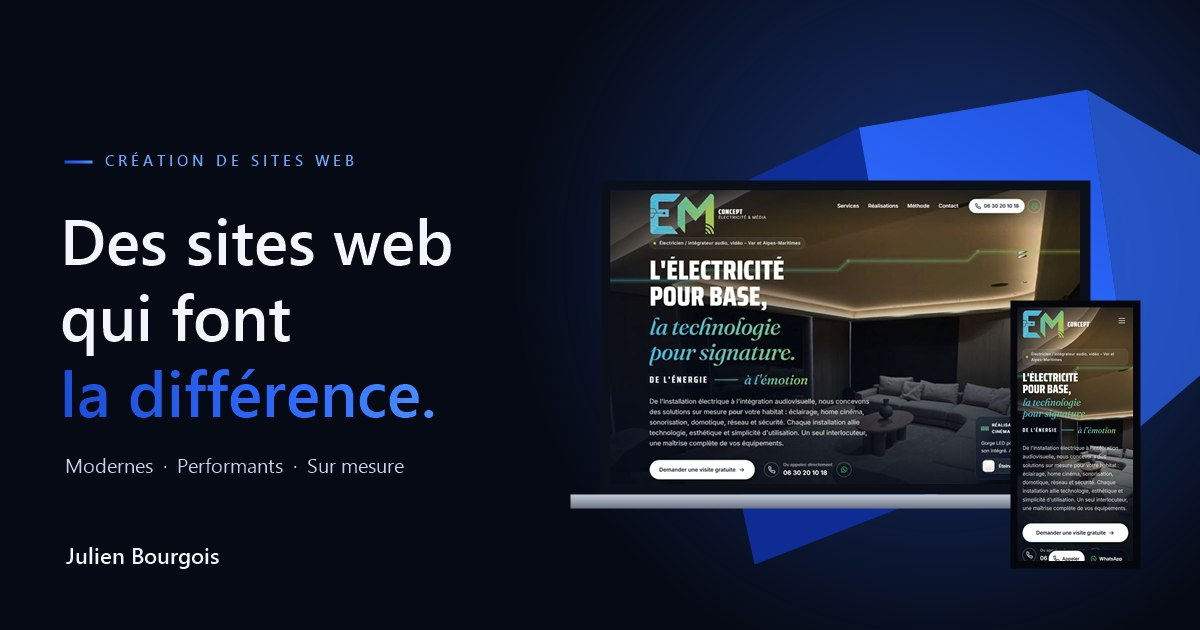
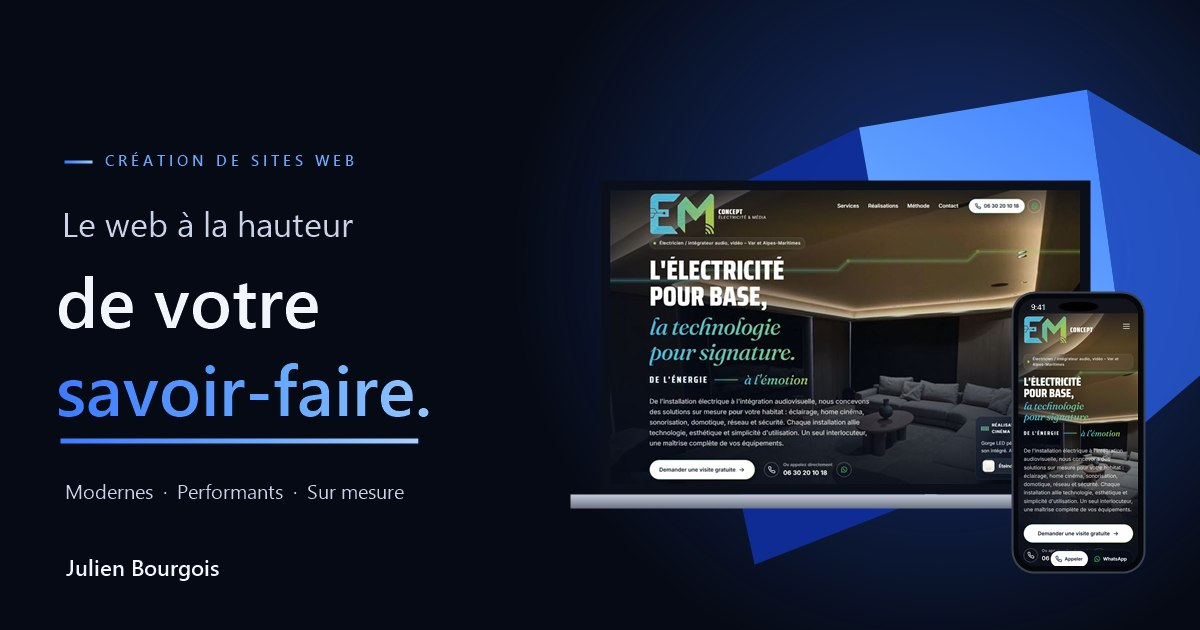
Accueil : « Le web à la hauteur de votre savoir-faire » et cinématique d'entrée
- Ligne d'intro qui se met au point (lettres qui se resserrent, flou qui se dissipe)
- « de votre » / « savoir-faire. » montent en sortant du flou, trait en dégradé
  tracé sous « savoir-faire. », puis reflet lumineux (toutes les 8 s)
- Texte et boutons après le titre, appareils en dernier ; respecte « réduire les animations »
- Image de partage et Open Graph mis à jour ; version des fichiers ?v=20261024

diff --git a/index.html b/index.html
@@ -14,13 +14,13 @@
   <meta property="og:type" content="website">
   <meta property="og:locale" content="fr_FR">
   <meta property="og:site_name" content="Julien Bourgois — Création de sites web">
-  <meta property="og:title" content="Des sites web qui font la différence — Julien Bourgois">
+  <meta property="og:title" content="Le web à la hauteur de votre savoir-faire — Julien Bourgois">
   <meta property="og:description" content="Sites web modernes, performants et sur mesure pour artisans, commerces et indépendants. Devis gratuit.">
   <meta property="og:url" content="https://julienb.vercel.app/">
-  <meta property="og:image" content="https://julienb.vercel.app/assets/img/og-image.jpg?v=20261023d">
+  <meta property="og:image" content="https://julienb.vercel.app/assets/img/og-image.jpg?v=20261024">
   <meta property="og:image:width" content="1200">
   <meta property="og:image:height" content="630">
-  <meta property="og:image:alt" content="Julien Bourgois, création de sites web : des sites web qui font la différence.">
+  <meta property="og:image:alt" content="Julien Bourgois, création de sites web : le web à la hauteur de votre savoir-faire.">
   <meta name="twitter:card" content="summary_large_image">
 
   <link rel="icon" href="assets/img/favicon.svg" type="image/svg+xml">
@@ -30,9 +30,9 @@
   <link rel="preconnect" href="https://fonts.googleapis.com">
   <link rel="preconnect" href="https://fonts.gstatic.com" crossorigin>
   <link rel="stylesheet" href="https://fonts.googleapis.com/css2?family=Outfit:wght@500;600&family=Inter:wght@400;500;600;700&display=swap">
-  <link rel="preload" as="image" href="assets/img/emconcept-720.jpg?v=20261023d" imagesrcset="assets/img/emconcept-720.jpg?v=20261023d 720w, assets/img/emconcept-1440.jpg?v=20261023d 1440w" imagesizes="(max-width: 960px) 90vw, 600px">
-  <link rel="stylesheet" href="assets/css/styles.css?v=20261023d">
-  <script type="module" src="assets/js/main.js?v=20261023d"></script>
+  <link rel="preload" as="image" href="assets/img/emconcept-720.jpg?v=20261024" imagesrcset="assets/img/emconcept-720.jpg?v=20261024 720w, assets/img/emconcept-1440.jpg?v=20261024 1440w" imagesizes="(max-width: 960px) 90vw, 600px">
+  <link rel="stylesheet" href="assets/css/styles.css?v=20261024">
+  <script type="module" src="assets/js/main.js?v=20261024"></script>
 
   <script type="application/ld+json">
   {
@@ -53,7 +53,7 @@
         "@id": "https://julienb.vercel.app/#studio",
         "name": "Julien Bourgois — création de sites web",
         "url": "https://julienb.vercel.app/",
-        "image": "https://julienb.vercel.app/assets/img/og-image.jpg?v=20261023d",
+        "image": "https://julienb.vercel.app/assets/img/og-image.jpg?v=20261024",
         "telephone": "+33674887585",
         "email": "bourgois.ju@gmail.com",
         "founder": { "@id": "https://julienb.vercel.app/#julien" },
@@ -123,10 +123,12 @@
       <section class="hero container" id="top" data-reveal data-devices>
         <div class="hero-copy">
           <p class="kicker kicker-left reveal" style="--i:0">Création de sites web</p>
+          <!-- Entrance (styles.css § Motion): the intro line comes into focus, the two big lines rise,
+               a gradient stroke draws under « savoir-faire. », then a light sweep crosses it. -->
           <h1>
-            <span class="line"><span style="--i:0">Des sites web</span></span>
-            <span class="line"><span style="--i:1">qui font</span></span>
-            <span class="line"><span style="--i:2" class="grad-text">la différence.</span></span>
+            <span class="h1-intro">Le web à la hauteur</span>
+            <span class="line"><span style="--i:1">de votre</span></span>
+            <span class="line line-underline"><span style="--i:2" class="grad-text shine">savoir-faire.</span></span>
           </h1>
           <ul class="hero-pillars reveal" style="--i:3"><li>Modernes</li><li>Performants</li><li>Sur mesure</li></ul>
           <p class="lead reveal" style="--i:4">Je conçois des sites web modernes, élégants et adaptés à vos objectifs. Que vous soyez artisan, commerçant ou indépendant, votre site doit refléter votre savoir-faire, inspirer confiance et donner envie à vos futurs clients de vous contacter.</p>
@@ -161,9 +163,9 @@
             <div class="laptop">
               <div class="laptop-screen">
                 <div class="screen" data-screen="desktop">
-                  <img class="is-active" src="assets/img/emconcept-720.jpg?v=20261023d" srcset="assets/img/emconcept-720.jpg?v=20261023d 720w, assets/img/emconcept-1440.jpg?v=20261023d 1440w" sizes="(max-width: 960px) 90vw, 600px" width="1440" height="900" fetchpriority="high" decoding="async" alt="">
-                  <img src="assets/img/autoecole-720.jpg?v=20261023d" srcset="assets/img/autoecole-720.jpg?v=20261023d 720w, assets/img/autoecole-1440.jpg?v=20261023d 1440w" sizes="(max-width: 960px) 90vw, 600px" width="1440" height="900" decoding="async" alt="">
-                  <img src="assets/img/taquet-720.jpg?v=20261023d" srcset="assets/img/taquet-720.jpg?v=20261023d 720w, assets/img/taquet-1440.jpg?v=20261023d 1440w" sizes="(max-width: 960px) 90vw, 600px" width="1440" height="900" decoding="async" alt="">
+                  <img class="is-active" src="assets/img/emconcept-720.jpg?v=20261024" srcset="assets/img/emconcept-720.jpg?v=20261024 720w, assets/img/emconcept-1440.jpg?v=20261024 1440w" sizes="(max-width: 960px) 90vw, 600px" width="1440" height="900" fetchpriority="high" decoding="async" alt="">
+                  <img src="assets/img/autoecole-720.jpg?v=20261024" srcset="assets/img/autoecole-720.jpg?v=20261024 720w, assets/img/autoecole-1440.jpg?v=20261024 1440w" sizes="(max-width: 960px) 90vw, 600px" width="1440" height="900" decoding="async" alt="">
+                  <img src="assets/img/taquet-720.jpg?v=20261024" srcset="assets/img/taquet-720.jpg?v=20261024 720w, assets/img/taquet-1440.jpg?v=20261024 1440w" sizes="(max-width: 960px) 90vw, 600px" width="1440" height="900" decoding="async" alt="">
                 </div>
               </div>
               <div class="laptop-base"></div>
@@ -175,9 +177,9 @@
           <div class="phone">
             <div class="phone-screen" data-screen="mobile">
               <div class="phone-status"><span>9:41</span><svg viewBox="0 0 54 12" fill="currentColor"><path d="M1 9h2v2H1zM5 7h2v4H5zM9 4h2v7H9zM13 1h2v10h-2z"/><path d="M24 4.2a8 8 0 0 1 10 0l-1.3 1.4a6 6 0 0 0-7.4 0zM26.5 6.9a4.3 4.3 0 0 1 5 0L29 9.6z"/><rect x="38.5" y="1.5" width="12" height="9" rx="2.4" fill="none" stroke="currentColor" opacity=".5"/><rect x="40" y="3" width="8" height="6" rx="1.2"/><path d="M52 4.5v3a1.5 1.5 0 0 0 0-3z" opacity=".5"/></svg></div>
-              <img class="is-active" data-status="#12141b" data-status-ink="#ffffff" src="assets/img/emconcept-mobile.jpg?v=20261023d" width="585" height="1266" decoding="async" alt="">
-              <img data-status="#ffffff" data-status-ink="#0a0a0a" src="assets/img/autoecole-mobile.jpg?v=20261023d" width="585" height="1266" decoding="async" alt="">
-              <img data-status="#d2e6f3" data-status-ink="#0a0a0a" src="assets/img/taquet-mobile.jpg?v=20261023d" width="585" height="1266" decoding="async" alt="">
+              <img class="is-active" data-status="#12141b" data-status-ink="#ffffff" src="assets/img/emconcept-mobile.jpg?v=20261024" width="585" height="1266" decoding="async" alt="">
+              <img data-status="#ffffff" data-status-ink="#0a0a0a" src="assets/img/autoecole-mobile.jpg?v=20261024" width="585" height="1266" decoding="async" alt="">
+              <img data-status="#d2e6f3" data-status-ink="#0a0a0a" src="assets/img/taquet-mobile.jpg?v=20261024" width="585" height="1266" decoding="async" alt="">
             </div>
           </div>
         </div>
@@ -201,8 +203,8 @@
           <li class="project card" data-reveal>
             <a class="project-shot" href="https://emconcept.vercel.app" target="_blank" rel="noopener" data-preview
                data-title="EM Concept" data-meta="Électricité &amp; audiovisuel · Var">
-              <img src="assets/img/emconcept-720.jpg?v=20261023d"
-                   srcset="assets/img/emconcept-720.jpg?v=20261023d 720w, assets/img/emconcept-1440.jpg?v=20261023d 1440w"
+              <img src="assets/img/emconcept-720.jpg?v=20261024"
+                   srcset="assets/img/emconcept-720.jpg?v=20261024 720w, assets/img/emconcept-1440.jpg?v=20261024 1440w"
                    sizes="(max-width: 960px) 100vw, 680px"
                    width="1440" height="900" loading="lazy" decoding="async"
                    alt="Page d'accueil d'EM Concept : « L'électricité pour base, la technologie pour signature » sur un salon éclairé">
@@ -220,8 +222,8 @@
           <li class="project card" data-reveal>
             <a class="project-shot" href="https://autoecole-smoky.vercel.app" target="_blank" rel="noopener" data-preview
                data-title="Auto-école La Tour de Mare" data-meta="Auto-école · Fréjus">
-              <img src="assets/img/autoecole-720.jpg?v=20261023d"
-                   srcset="assets/img/autoecole-720.jpg?v=20261023d 720w, assets/img/autoecole-1440.jpg?v=20261023d 1440w"
+              <img src="assets/img/autoecole-720.jpg?v=20261024"
+                   srcset="assets/img/autoecole-720.jpg?v=20261024 720w, assets/img/autoecole-1440.jpg?v=20261024 1440w"
                    sizes="(max-width: 960px) 100vw, 680px"
                    width="1440" height="900" loading="lazy" decoding="async"
                    alt="Page d'accueil de l'auto-école La Tour de Mare : « Passez votre permis dans une auto-école qui a fait ses preuves »">
@@ -239,8 +241,8 @@
           <li class="project card" data-reveal>
             <a class="project-shot" href="https://annick-taquet-assoignons.vercel.app" target="_blank" rel="noopener" data-preview
                data-title="Annick Taquet-Assoignons" data-meta="Psychologue &amp; autrice">
-              <img src="assets/img/taquet-720.jpg?v=20261023d"
-                   srcset="assets/img/taquet-720.jpg?v=20261023d 720w, assets/img/taquet-1440.jpg?v=20261023d 1440w"
+              <img src="assets/img/taquet-720.jpg?v=20261024"
+                   srcset="assets/img/taquet-720.jpg?v=20261024 720w, assets/img/taquet-1440.jpg?v=20261024 1440w"
                    sizes="(max-width: 960px) 100vw, 680px"
                    width="1440" height="900" loading="lazy" decoding="async"
                    alt="Page d'accueil d'Annick Taquet-Assoignons : « Mettre des mots sur ce qui se vit » entouré de couvertures de livres">

diff --git a/assets/css/styles.css b/assets/css/styles.css
@@ -203,9 +203,23 @@ ul, ol { margin: 0; padding: 0; list-style: none; }
   display: grid; grid-template-columns: minmax(0, 1fr) minmax(0, 1.05fr); align-items: center; gap: clamp(32px, 5vw, 72px);
   min-height: min(calc(100svh - var(--header-h)), 880px); padding-block: clamp(48px, 7vw, 96px);
 }
-.hero h1 { margin-top: 24px; font-size: var(--fs-hero); font-weight: 600; letter-spacing: -.035em; line-height: 1.02; }
+.hero h1 { margin-top: 24px; font-size: clamp(2.9rem, 5.6vw, 5.2rem); font-weight: 600; letter-spacing: -.035em; line-height: 1.02; }
 .hero h1 .line { display: block; overflow: hidden; padding-bottom: .08em; margin-bottom: -.08em; }
 .hero h1 .line > span { display: inline-block; }
+/* Small intro line above the two big ones */
+.h1-intro { display: block; white-space: nowrap; margin-bottom: .3em; font-size: .46em; font-weight: 500; letter-spacing: -.01em; line-height: 1.1; color: var(--ink-2); }
+/* Gradient stroke under « savoir-faire. » */
+.hero h1 .line-underline { padding-bottom: .24em; margin-bottom: -.2em; }
+.line-underline > span { position: relative; }
+.line-underline > span::after {
+  content: ""; position: absolute; left: .02em; right: .4em; bottom: -.1em; height: .065em; border-radius: 99px;
+  background: var(--grad); box-shadow: 0 0 .35em rgb(47 107 255 / .55); transform-origin: left;
+}
+/* Light sweep across the gradient word (two layers clipped to the text) */
+.shine {
+  background-image: linear-gradient(105deg, transparent 38%, rgb(255 255 255 / .85) 50%, transparent 62%), var(--grad-text);
+  background-size: 260% 100%, 100% 100%; background-repeat: no-repeat; background-position: 160% 0, 0 0;
+}
 .hero-pillars { display: flex; flex-wrap: wrap; align-items: center; gap: 8px 14px; margin-top: 22px; font: 500 var(--fs-md)/1.4 var(--sans); color: var(--ink-2); }
 .hero-pillars li + li::before { content: ""; display: inline-block; width: 5px; height: 5px; margin-right: 14px; border-radius: 50%; background: var(--blue-3); vertical-align: middle; }
 .lead { margin-top: 22px; max-width: 46ch; font-size: var(--fs-lg); line-height: 1.6; color: var(--muted); }
@@ -435,10 +449,27 @@ ul, ol { margin: 0; padding: 0; list-style: none; }
 /* Everything starts visible; the head script adds .motion, main.js confirms with .is-ready. */
 .motion .reveal { opacity: 0; transform: translateY(24px); transition: opacity var(--dur-slow) var(--ease-out), transform var(--dur-slow) var(--ease-out); transition-delay: calc(var(--i, 0) * var(--stagger)); }
 .motion .reveal.is-visible { opacity: 1; transform: none; }
-.motion .hero h1 .line > span { transform: translateY(105%); transition: transform 1.2s var(--ease-out); transition-delay: calc(var(--i, 0) * 110ms + 150ms); }
-.motion .hero.is-visible h1 .line > span { transform: none; }
-.motion .hero-visual { opacity: 0; transform: translateY(40px) scale(.96); transition: opacity 1.2s var(--ease-out) .45s, transform 1.4s var(--ease-out) .45s; }
-.motion .hero.is-visible .hero-visual { opacity: 1; transform: none; }
+/* Hero entrance, one take (~2.4 s):
+   0.0 s  signature stroke draws
+   0.2 s  intro line comes into focus (letters tighten, blur clears)
+   0.6 s  « de votre » then « savoir-faire. » rise out of a soft blur
+   1.5 s  gradient stroke draws under « savoir-faire. »
+   1.9 s  light sweep crosses the word (then again every 8 s)
+   1.0 s  devices arrive in parallel, from depth */
+.motion .hero .kicker::before { transform: scaleX(0); transform-origin: left; transition: transform 1s var(--ease-out); }
+.motion .hero.is-visible .kicker::before { transform: none; }
+.motion .h1-intro { opacity: 0; letter-spacing: .32em; filter: blur(10px); transition: opacity 1.4s var(--ease-out) .2s, letter-spacing 1.8s var(--ease-out) .2s, filter 1.4s var(--ease-out) .2s; }
+.motion .hero.is-visible .h1-intro { opacity: 1; letter-spacing: -.01em; filter: none; }
+/* Supporting text follows the headline instead of preceding it */
+.motion .hero .reveal:not(.kicker) { transition-delay: calc(var(--i, 0) * 90ms + 750ms); }
+.motion .hero h1 .line > span { transform: translateY(105%); filter: blur(8px); transition: transform 1.3s var(--ease-out), filter 1.1s var(--ease-out); transition-delay: calc(var(--i, 0) * 160ms + 450ms); }
+.motion .hero.is-visible h1 .line > span { transform: none; filter: none; }
+.motion .line-underline > span::after { transform: scaleX(0); transition: transform 1.1s var(--ease-in-out) 1.5s; }
+.motion .hero.is-visible .line-underline > span::after { transform: none; }
+.motion .hero.is-visible .shine { animation: shine 8s ease-in-out 1.9s infinite; }
+@keyframes shine { 0% { background-position: 160% 0, 0 0; } 16%, 100% { background-position: -60% 0, 0 0; } }
+.motion .hero-visual { opacity: 0; transform: translateY(40px) scale(.94); filter: blur(6px); transition: opacity 1.4s var(--ease-out) 1s, transform 1.6s var(--ease-out) 1s, filter 1.2s var(--ease-out) 1s; }
+.motion .hero.is-visible .hero-visual { opacity: 1; transform: none; filter: none; }
 .motion .project { opacity: 0; transform: translateY(48px); transition: opacity 1s var(--ease-out), transform 1.1s var(--ease-out); }
 .motion .project.is-visible { opacity: 1; transform: none; }
 

diff --git a/assets/js/main.js b/assets/js/main.js
@@ -1,10 +1,10 @@
 // Entry point. Each module enhances markup that already works without JavaScript.
-import { initTheme } from './theme.js?v=20261023d';
-import { initHeader, initReveal, initParallax } from './motion.js?v=20261023d';
-import { initPreview } from './preview.js?v=20261023d';
-import { initCursor } from './cursor.js?v=20261023d';
-import { initMagnetic, initCountUp } from './effects.js?v=20261023d';
-import { initDevices } from './devices.js?v=20261023d';
+import { initTheme } from './theme.js?v=20261024';
+import { initHeader, initReveal, initParallax } from './motion.js?v=20261024';
+import { initPreview } from './preview.js?v=20261024';
+import { initCursor } from './cursor.js?v=20261024';
+import { initMagnetic, initCountUp } from './effects.js?v=20261024';
+import { initDevices } from './devices.js?v=20261024';
 
 const root = document.documentElement;
 const reducedMotion = matchMedia('(prefers-reduced-motion: reduce)');

diff --git a/404.html b/404.html
@@ -9,7 +9,7 @@
   <link rel="preconnect" href="https://fonts.googleapis.com">
   <link rel="preconnect" href="https://fonts.gstatic.com" crossorigin>
   <link rel="stylesheet" href="https://fonts.googleapis.com/css2?family=Outfit:wght@500;600&family=Inter:wght@400;500;600;700&display=swap">
-  <link rel="stylesheet" href="/assets/css/styles.css?v=20261023d">
+  <link rel="stylesheet" href="/assets/css/styles.css?v=20261024">
 </head>
 <body>
   <main class="container error-page">

diff --git a/README.md b/README.md
@@ -65,9 +65,9 @@ Les questions de la section « Questions » existent deux fois : dans la page (`
 ## Cache des navigateurs (important)
 
 Les images sont gardées 30 jours par les navigateurs. Pour que les visiteurs voient tout de suite une mise à jour,
-les fichiers sont appelés avec un numéro de version : `styles.css?v=20261023d`, `main.js?v=…`, les imports de
+les fichiers sont appelés avec un numéro de version : `styles.css?v=20261024`, `main.js?v=…`, les imports de
 `main.js` et les captures (`emconcept-720.jpg?v=…`).
 
 **À chaque mise en ligne qui modifie le CSS, le JS ou une image**, remplacer ce numéro partout par la date du jour
-(rechercher/remplacer `?v=20261023d` dans `index.html`, `404.html` et `assets/js/main.js`).
+(rechercher/remplacer `?v=20261024` dans `index.html`, `404.html` et `assets/js/main.js`).
 `tools/test.ps1` vérifie que le même numéro est utilisé partout.
